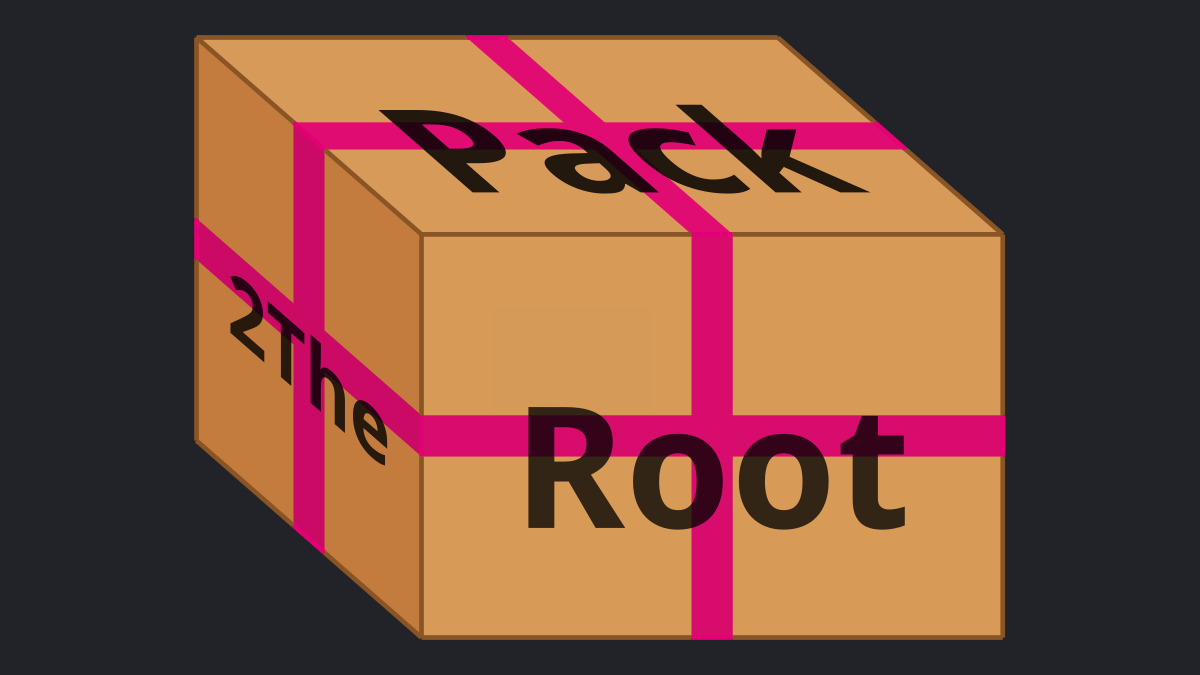
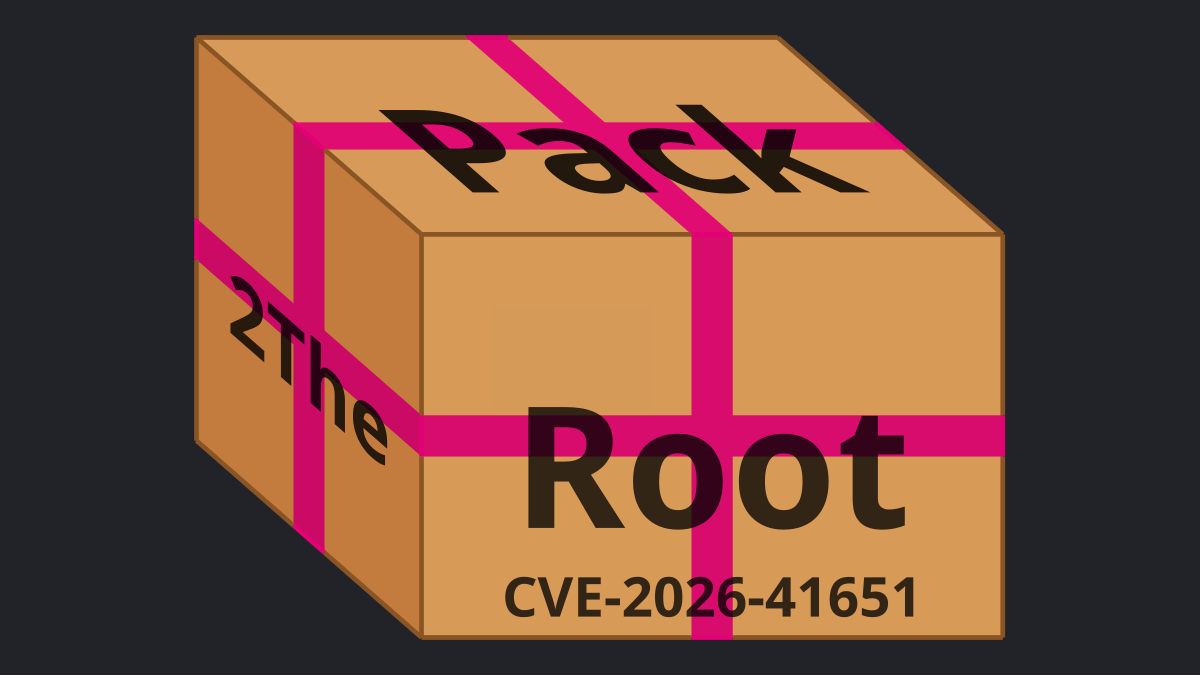
Added CVE-2026-41651

Changed region(s): [[0.4008, 0.84, 0.7708, 0.9333]]

diff --git a/_posts/2026-04-22-pack2theroot-linux-local-privilege-escalation.md b/_posts/2026-04-22-pack2theroot-linux-local-privilege-escalation.md
@@ -1,7 +1,7 @@
 ---
-title: 'Pack2TheRoot: Cross-Distro Local Privilege Escalation Vulnerability'
-header: 'Pack2TheRoot: Cross-Distro Local Privilege Escalation Vulnerability'
-og_description: 'Pack2TheRoot is a local privilege escalation (LPE) vulnerability that affects multiple Linux distributions in default installations.'
+title: 'Pack2TheRoot (CVE-2026-41651): Cross-Distro Local Privilege Escalation Vulnerability'
+header: 'Pack2TheRoot (CVE-2026-41651): Cross-Distro Local Privilege Escalation Vulnerability'
+og_description: 'Pack2TheRoot (CVE-2026-41651) is a local privilege escalation (LPE) vulnerability that affects multiple Linux distributions in default installations.'
 og_image: '/assets/images/Pack2TheRoot/Pack2TheRoot.png'
 tags: ['advisories']
 cwes: ['CWE-367 (Time-of-check Time-of-use (TOCTOU) Race Condition)']
@@ -13,13 +13,12 @@ vulnerability_release_date: '2026-04-20'
 
 Today we publicly disclose a high-severity vulnerability (CVSS 3: 8.8) - in coordination with distro maintainers - that affects multiple Linux distributions in their default installations.
 The Pack2TheRoot vulnerability can be exploited by any local unprivileged user to obtain root access on a vulnerable system. <!--more-->
-**A CVE number assignment is still pending. This blog post will be updated accordingly.**
 
 The vulnerability lies in the [PackageKit daemon](https://github.com/PackageKit/PackageKit), a cross-distro package management abstraction layer.
 
 The vulnerability enables an unprivileged attacker to install or remove system packages without authorization. This can be exploited to gain full root access or compromise the system in other ways.
 
-The Pack2TheRoot vulnerability was discovered by Deutsche Telekom's Red Team during targeted research into local privilege escalation vectors on modern Linux systems.
+The Pack2TheRoot (CVE-2026-41651) vulnerability was discovered by Deutsche Telekom's Red Team during targeted research into local privilege escalation vectors on modern Linux systems.
 PackageKit as a candidate initially caught our attention when we observed that a `pkcon install` command could install a system package without requiring a password on a Fedora Workstation.
 Starting in 2025, we began investigating whether this behavior could be abused to achieve arbitrary package installation.
 By guiding the AI-assisted research into a specific direction (using Claude Opus by Anthropic) we were able to discover an exploitable vulnerability.
@@ -96,11 +95,12 @@ If you have questions regarding the vulnerability or are interested in our [secu
 - 2026-04-19: Privately informed distribution vendors through [distros mailing list](https://oss-security.openwall.org/wiki/mailing-lists/distros), shared patch and publication date
 - 2026-04-21: Reaffirmed the publication date with distribution maintainers 
 - 2026-04-22: PackageKit patch release and public disclosure through [oss-security mailing list](https://oss-security.openwall.org/wiki/mailing-lists) and this blog post.
+- 2026-04-22: Got CVE-2026-41651 assigned
 
 ### Advisories
 
 - GitHub Security Advisory [GHSA-f55j-vvr9-69xv](https://github.com/PackageKit/PackageKit/security/advisories/GHSA-f55j-vvr9-69xv)
-
+- [CVE-2026-41651](https://www.cve.org/CVERecord?id=CVE-2026-41651)
 
 *The images in this article are free to use, as long as a reference to this blog post is provided.*
 
